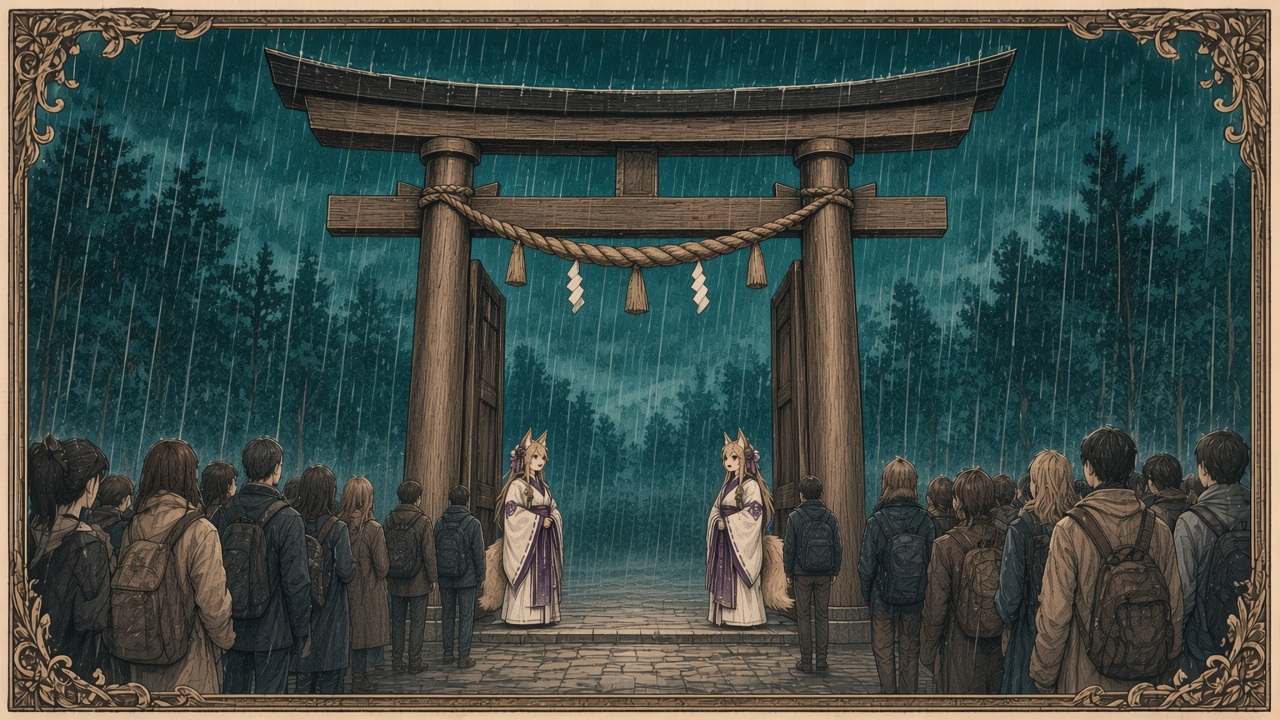
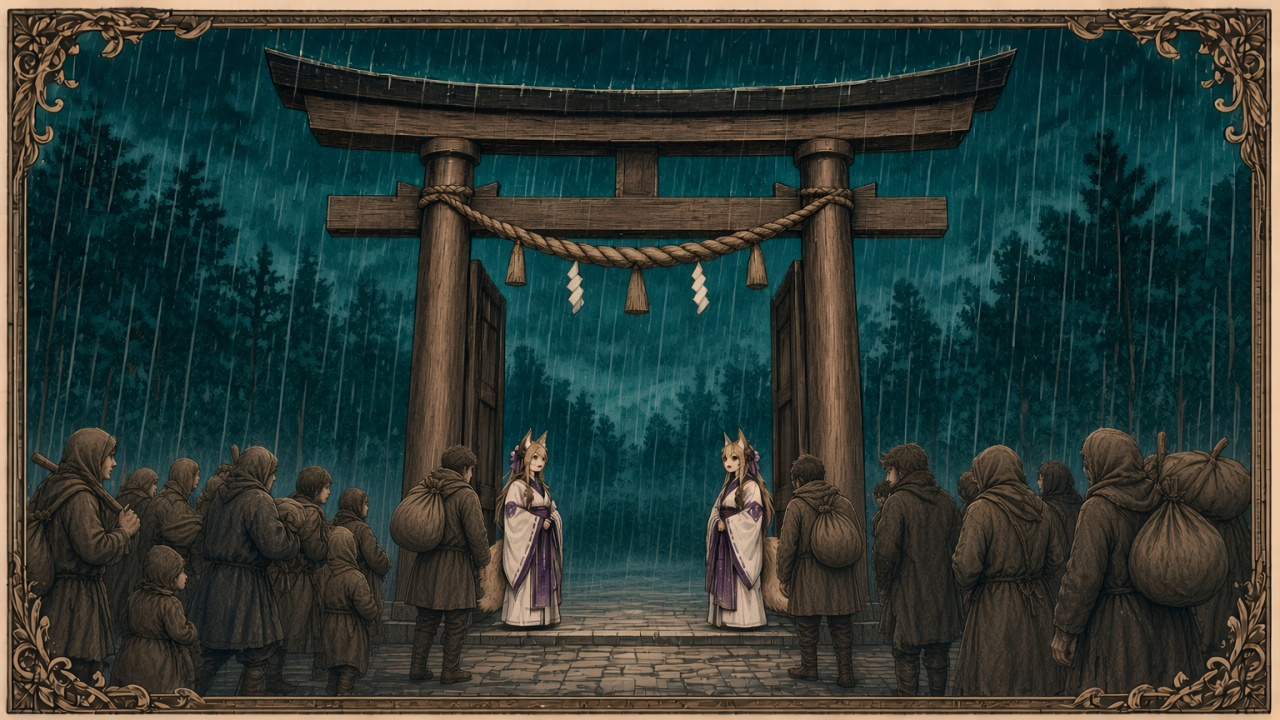
第133期 夕刊

diff --git a/issues/133-夕刊.html b/issues/133-夕刊.html
@@ -965,7 +965,7 @@ b.sea { color: #1f5f7a; font-weight: 800; }
         <h2 class="v-headline">教団へ223,200人<br>元の人口160,000人を超えた</h2>
         <p class="v-sub">仕事を求めて青海から到着　教団は受け入れ、繁栄賞　青海は災難賞</p>
         <figure class="photo">
-          <img class="fitphoto" src="../images/133-夕刊/133-gate.jpg?v=6" alt="門の前で列を迎える教団の人々">
+          <img class="fitphoto" src="../images/133-夕刊/133-gate.jpg?v=7" alt="門の前で列を迎える教団の人々">
           <figcaption>雨の教団の門。白い衣の人々が、荷物を背負った列を中へ入れている。到着は223,200人。</figcaption>
         </figure>
         <div class="v"><p class="lead noindent"><span class="dateline">【社会部】</span>青海共和国から狐っ娘の尻尾教団へ、仕事を求める223,200人が到着した。教団は快く受け入れた。教団の前期の人口は160,000人である。着いた人数は、そこに住んでいた人数より多い。今期の人口は395,900人になった。</p>
